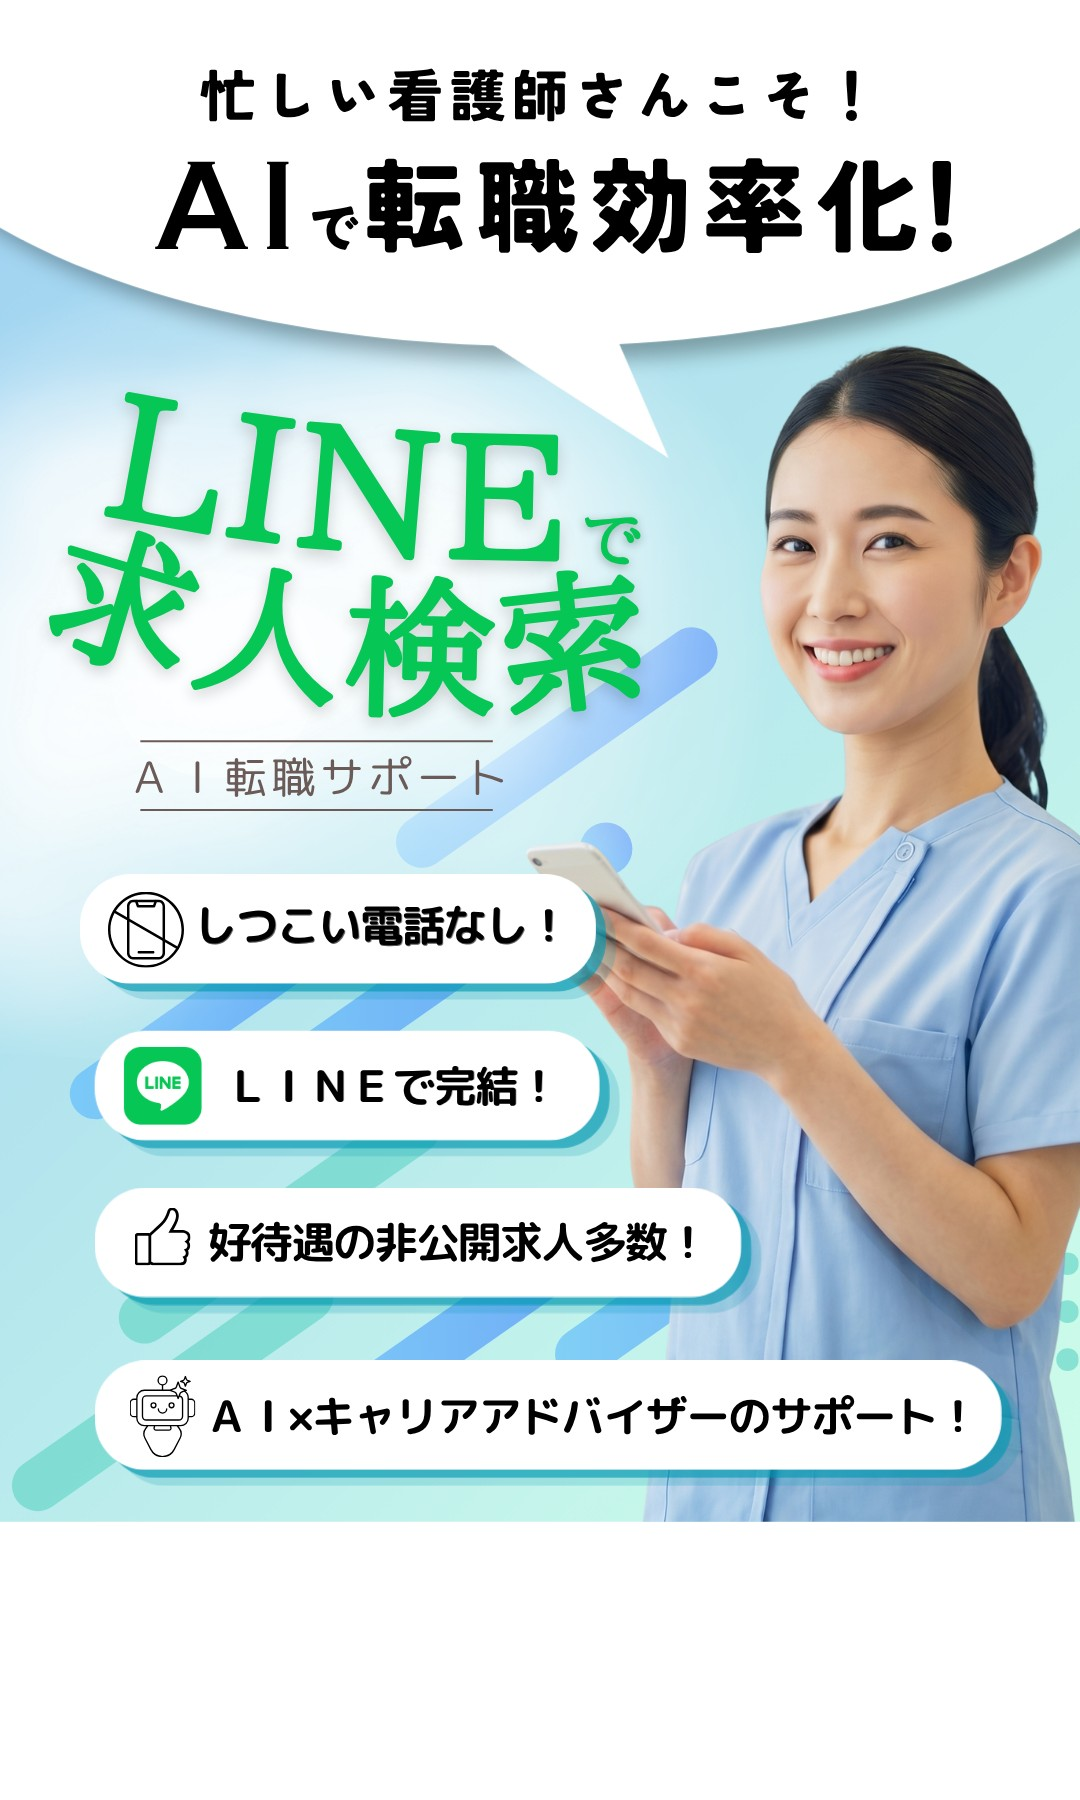
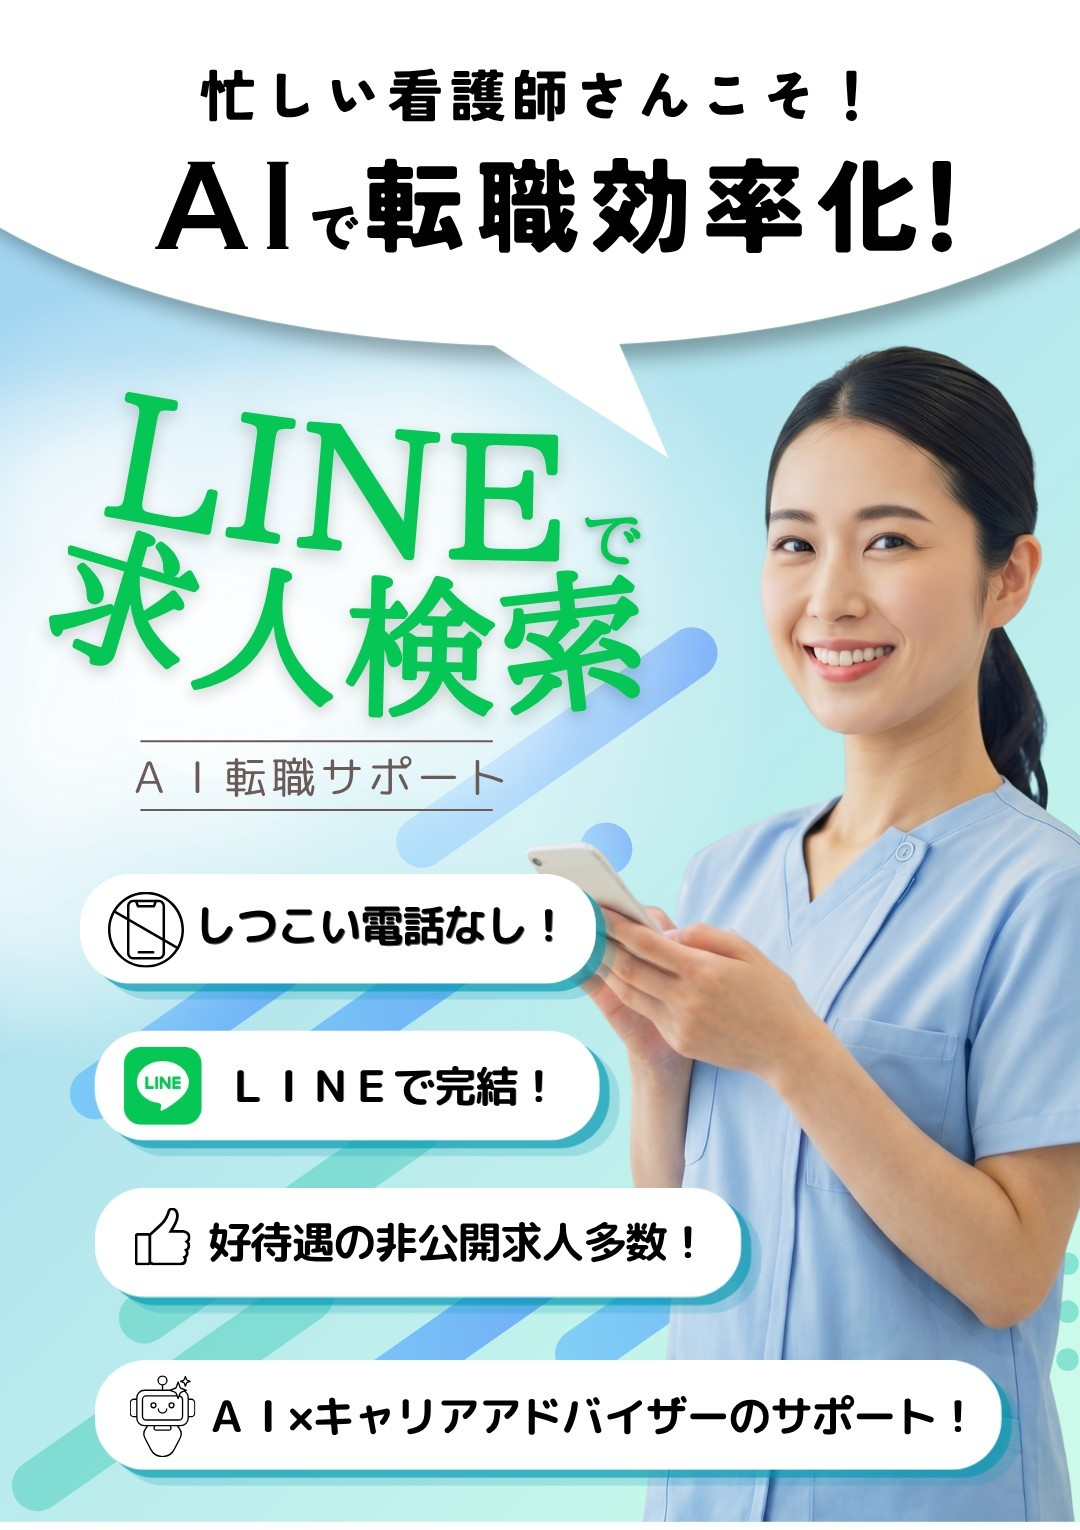
fix: ヒーロー画像の白スペースをトリミング + CTA配置を通常に戻す
白スペース270px分を除去（1080x1800→1080x1530）。
CTAボタンは画像直下に通常配置。iPhone SE/17どちらでも全訴求が見える。

diff --git a/lp/job-seeker/index.html b/lp/job-seeker/index.html
@@ -446,22 +446,10 @@
         }
 
         .hero-cta-overlay {
-            position: absolute;
-            bottom: 2%;
-            left: 0;
-            right: 0;
-            padding: 0 24px 12px;
+            position: relative;
+            padding: 20px 24px 28px;
+            background: #fff;
             text-align: center;
-            z-index: 2;
-        }
-
-        @media (min-width: 768px) {
-            .hero-cta-overlay {
-                position: relative;
-                padding: 20px 24px 28px;
-                background: #fff;
-                bottom: auto;
-            }
         }
 
         @keyframes heroFloat {
@@ -1423,7 +1411,7 @@
     <!-- Hero -->
     <section class="hero" id="hero">
         <picture>
-            <source media="(max-width: 767px)" srcset="../../assets/hero-nurse-sp-v2.jpg" width="1080" height="1800">
+            <source media="(max-width: 767px)" srcset="../../assets/hero-nurse-sp-v2.jpg" width="1080" height="1530">
             <img src="../../assets/hero-nurse-new.jpg" alt="看護師さんのためのAI転職サポート — 最適な求人をマッチング" class="hero-img" width="1200" height="560" fetchpriority="high">
         </picture>
         <!-- SEO用（画像に焼き込み済みのテキスト） -->
